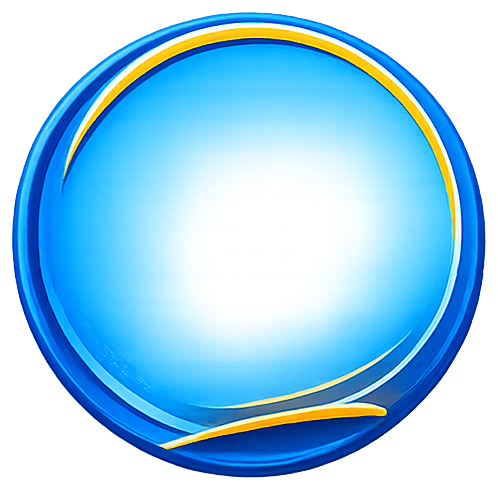
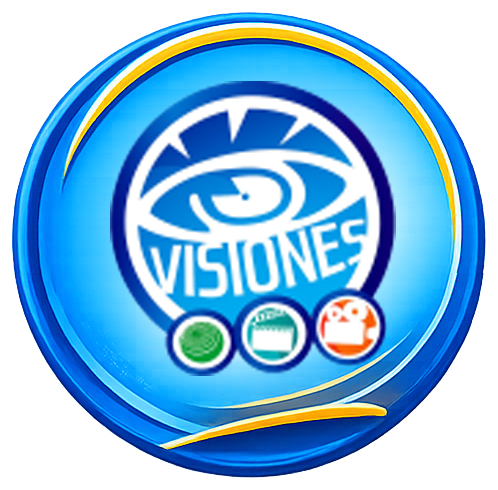
Icono cashier.png, credito de colaboracion y busqueda automatica en la APK

Changed region(s): [[0.2108, 0.1531, 0.8133, 0.7653]]

diff --git a/www/app.js b/www/app.js
@@ -798,7 +798,8 @@ function exitApp(){
 }
 
 /* ============================================================
-   ACTUALIZACIONES (GitHub Releases; solo se consulta al pulsar)
+   ACTUALIZACIONES (GitHub Releases)
+   En la APK se comprueba al abrir; en la web solo al pulsar.
    ============================================================ */
 function compareVersions(a, b){
   const parse = v => String(v || '').replace(/^v/i,'').split(/[.\-]/).map(x => parseInt(x,10) || 0);
@@ -809,37 +810,52 @@ function compareVersions(a, b){
   }
   return 0;
 }
+const UPDATE_TIMEOUT_MS = 7000;
 let updateAssetUrl = RELEASES_PAGE;
-async function checkForUpdates(){
+let lastAutoCheck = 0;
+async function checkForUpdates(opts){
+  const auto = !!(opts && opts.auto);
   const btn = $('#sideUpdate');
   const label = $('#sideVersion');
-  if(!btn || btn.disabled) return;
-  btn.disabled = true;
-  label.textContent = '…';
+  if(!auto && btn && btn.disabled) return;
+  if(auto){
+    if(Date.now() - lastAutoCheck < 60000) return;
+    lastAutoCheck = Date.now();
+  }else{
+    if(btn) btn.disabled = true;
+    if(label) label.textContent = '…';
+  }
+
+  const controller = (typeof AbortController === 'function') ? new AbortController() : null;
+  const timer = controller ? setTimeout(() => controller.abort(), UPDATE_TIMEOUT_MS) : null;
   try{
     const res = await fetch(RELEASES_API, {
       cache:'no-store',
-      headers:{ Accept:'application/vnd.github+json' }
+      headers:{ Accept:'application/vnd.github+json' },
+      signal: controller ? controller.signal : undefined
     });
     if(!res.ok) throw new Error('HTTP ' + res.status);
     const rel = await res.json();
     const latest = String(rel.tag_name || APP_VERSION);
     const apk = (rel.assets || []).find(a => /\.apk$/i.test(a.name || ''));
     updateAssetUrl = (apk && apk.browser_download_url) || rel.html_url || RELEASES_PAGE;
+    if(label) label.textContent = latest;
 
     if(compareVersions(latest, APP_VERSION) > 0){
       $('#updateTitle').textContent = `Versión ${latest} disponible`;
       $('#updateMsg').textContent = `Tienes la versión ${APP_VERSION}. Se abrirá GitHub para descargar el APK actualizado.`;
       $('#updateOverlay').classList.add('show');
-    }else{
+    }else if(!auto){
       toast(`Ya tienes la versión más reciente (${APP_VERSION})`, 'success');
     }
-    label.textContent = latest;
   }catch(e){
-    label.textContent = 'v' + APP_VERSION;
-    toast('Sin conexión: no se pudo buscar actualizaciones', 'error');
+    if(!auto){
+      if(label) label.textContent = 'v' + APP_VERSION;
+      toast('Sin conexión: no se pudo buscar actualizaciones', 'error');
+    }
   }finally{
-    btn.disabled = false;
+    if(timer) clearTimeout(timer);
+    if(!auto && btn) btn.disabled = false;
   }
 }
 
@@ -1015,6 +1031,12 @@ document.addEventListener('DOMContentLoaded', async () => {
   };
   if(schemeQuery.addEventListener) schemeQuery.addEventListener('change', onSchemeChange);
   else if(schemeQuery.addListener) schemeQuery.addListener(onSchemeChange);
+
+  /* Al abrir la APK (tras pasar la intro) se busca versión nueva en silencio;
+     si no hay conexión no se muestra ningún aviso y la app sigue local. */
+  if(isNative && sessionStorage.getItem('cashier_entered') === '1'){
+    setTimeout(() => checkForUpdates({ auto:true }), 1200);
+  }
 
   window.addEventListener('orientationchange', () => setTimeout(() => refreshTotals(), 200));
 });

diff --git a/www/intro.html b/www/intro.html
@@ -5,6 +5,7 @@
 <meta name="viewport" content="width=device-width, initial-scale=1.0, maximum-scale=5.0, viewport-fit=cover">
 <meta name="theme-color" content="#071018">
 <title>Entrar al Cashier de Yudira</title>
+<link rel="icon" href="icons/cashier.png">
 <link rel="stylesheet" href="vendor/fontawesome/css/all.min.css">
 <style>
   :root{
@@ -123,6 +124,8 @@
     margin-top:2px;display:flex;align-items:center;justify-content:center;gap:7px;
     font-size:10.5px;color:#dbeafe;letter-spacing:.02em;
   }
+  .credito-texto{display:flex;flex-direction:column;align-items:center;line-height:1.35}
+  .credito-texto small{font-size:9.5px;color:var(--muted);opacity:.85}
   .credito img{
     width:26px;height:auto;
     filter:brightness(0) invert(1);
@@ -187,7 +190,10 @@
     <p class="pie">Versión 2.0.0 · 100 % local</p>
     <div class="credito">
       <img src="anim/02_Unicornio.png" alt="" aria-hidden="true">
-      <span>© Unicornio Software® - 2026</span>
+      <div class="credito-texto">
+        <span>© Unicornio Software® - 2026</span>
+        <small>En colaboración con MiPyMe "Visiones"</small>
+      </div>
     </div>
   </main>
 

diff --git a/www/index.html b/www/index.html
@@ -5,7 +5,8 @@
 <meta name="viewport" content="width=device-width, initial-scale=1.0, maximum-scale=5.0, viewport-fit=cover">
 <meta name="theme-color" content="#0a0c10">
 <link rel="manifest" href="manifest.webmanifest">
-<link rel="apple-touch-icon" href="icons/icon-192.png">
+<link rel="icon" href="icons/cashier.png">
+<link rel="apple-touch-icon" href="icons/cashier.png">
 <meta name="apple-mobile-web-app-capable" content="yes">
 <meta name="apple-mobile-web-app-status-bar-style" content="black-translucent">
 <script>

diff --git a/README.md b/README.md
@@ -1,6 +1,6 @@
 # ChashierYudira (antes Visiones - CashFlow)
 
-Calculadora de billetes multidenominación, 100 % local (sin peticiones de red).
+Calculadora de billetes multidenominación, 100 % local: no envía datos ni depende de la red para funcionar. Solo consulta GitHub para detectar versiones nuevas (en la APK, al abrir; en la web, al pulsar el botón).
 
 Repositorio: https://github.com/kakycu/APKCashierYudira
 
@@ -8,13 +8,14 @@ El APK generado se llama **`ChashierYudira.apk`**. Las tarjetas del historial mu
 
 ## Pantalla de entrada
 
-Al abrir la app (también en la APK) se muestra `www/intro.html` con esta coreografía: entra el círculo (`01_Circulo.png`) con la misma transición del original, después aparece el unicornio (`02_Unicornio.png`) más pequeño, luego `Yudira.png` cae desde arriba en grande y queda centrada dentro del círculo, sin recuadro ni borde (solo su recorte PNG con `drop-shadow`), y finalmente el unicornio sube por delante de la foto y se coloca encima del círculo. Debajo aparece el botón **ENTRAR AL CASHIER DE YUDIRA**, que guarda un flag en `sessionStorage` y abre `index.html`. Bajo la versión se muestra el crédito `© Unicornio Software® - 2026` con el unicornio en blanco completo y sin glow; el unicornio animado sobre Yudira lleva un glow blanco/cian más visible y termina un poco más pequeño. Todos los botones incluyen icono, incluidos los diálogos.
+Al abrir la app (también en la APK) se muestra `www/intro.html` con esta coreografía: entra el círculo (`01_Circulo.png`) con la misma transición del original, después aparece el unicornio (`02_Unicornio.png`) más pequeño, luego `Yudira.png` cae desde arriba en grande y queda centrada dentro del círculo, sin recuadro ni borde (solo su recorte PNG con `drop-shadow`), y finalmente el unicornio sube por delante de la foto y se coloca encima del círculo. Debajo aparece el botón **ENTRAR AL CASHIER DE YUDIRA**, que guarda un flag en `sessionStorage` y abre `index.html`. Bajo la versión se muestran el crédito `© Unicornio Software® - 2026` y la línea `En colaboración con MiPyMe "Visiones"`, con el unicornio en blanco completo y sin glow; el unicornio animado sobre Yudira lleva un glow blanco/cian más visible y termina un poco más pequeño. El icono de la app es `cashier.png`. Todos los botones incluyen icono, incluidos los diálogos.
 
 ## Menú lateral y actualizaciones (v2.0.0)
 
 - Botón de hamburguesa en la barra de título: abre una barra lateral con las cuatro secciones, acciones rápidas (guardar, vaciar, tema, sonidos, preferencias), **Cerrar aplicación** y **Buscar actualizaciones**.
 - El cierre usa `App.exitApp()` en Android y una confirmación + recarga en navegador; el botón Atrás cierra primero el menú.
-- La búsqueda de versiones es **manual y opcional**: consulta el último *release* de GitHub solo al pulsarla. Si no hay conexión, avisa y la app sigue funcionando sin red. Si hay una versión nueva, muestra un diálogo con el enlace directo al APK; en Android se abre con `window.open(url, '_system')`.
+- En la **APK**, al abrir la app (después de la intro) se comprueba en silencio el último *release* de GitHub; si hay una versión nueva se muestra el diálogo con el enlace directo al APK. Si no hay conexión, no se muestra ningún aviso y la app sigue funcionando sin red.
+- En la **web**, la búsqueda sigue siendo manual: solo consulta GitHub al pulsar el botón. Si no hay conexión, avisa y la app sigue funcionando. En ambos casos el diálogo lleva el enlace al APK; en Android se abre con `window.open(url, '_system')`.
 - Versiones: `APP_VERSION` en `www/app.js` debe coincidir con el tag de la release de GitHub (`v2.0.0`).
 
 ## Compilar desde GitHub
@@ -29,7 +30,7 @@ El workflow `.github/workflows/build-apk.yml` compila automáticamente en cada `
   - `anim/` (solo `01_Circulo.png`, `02_Unicornio.png` y `Yudira.png`, usados en la animación)
   - `fonts/` (Inter + JetBrains Mono, `.woff2` con licencias OFL)
   - `vendor/fontawesome/` (iconos locales)
-  - `icons/` (iconos 192/512 y maskable generados desde `visioneslogo.png`)
+  - `icons/` (`cashier.png` original e iconos 192/512 y maskable generados desde él)
   - `manifest.webmanifest`
   - `sounds/` (vacío; los sonidos se generan con Web Audio)
 
@@ -61,7 +62,7 @@ npx cap add android
 npx cap sync
 ```
 
-`capacitor.config.json` debe conservar `webDir: "www"` y `androidScheme: "https"`. Después abre `android/` en Android Studio y genera un APK firmado (*Build → Generate Signed Bundle / APK*). `minSdkVersion 22`, `targetSdkVersion 35`.
+`capacitor.config.json` debe conservar `webDir: "www"` y `androidScheme: "https"`. Después abre `android/` en Android Studio y genera un APK firmado (*Build → Generate Signed Bundle / APK*). `minSdkVersion 24`, `targetSdkVersion 36`. El icono se genera desde `cashier.png` en `www/icons/` y en `android/app/src/main/res/mipmap-*/`.
 
 Cada vez que cambies `www/`: `npx cap sync` y recompilar.
 
